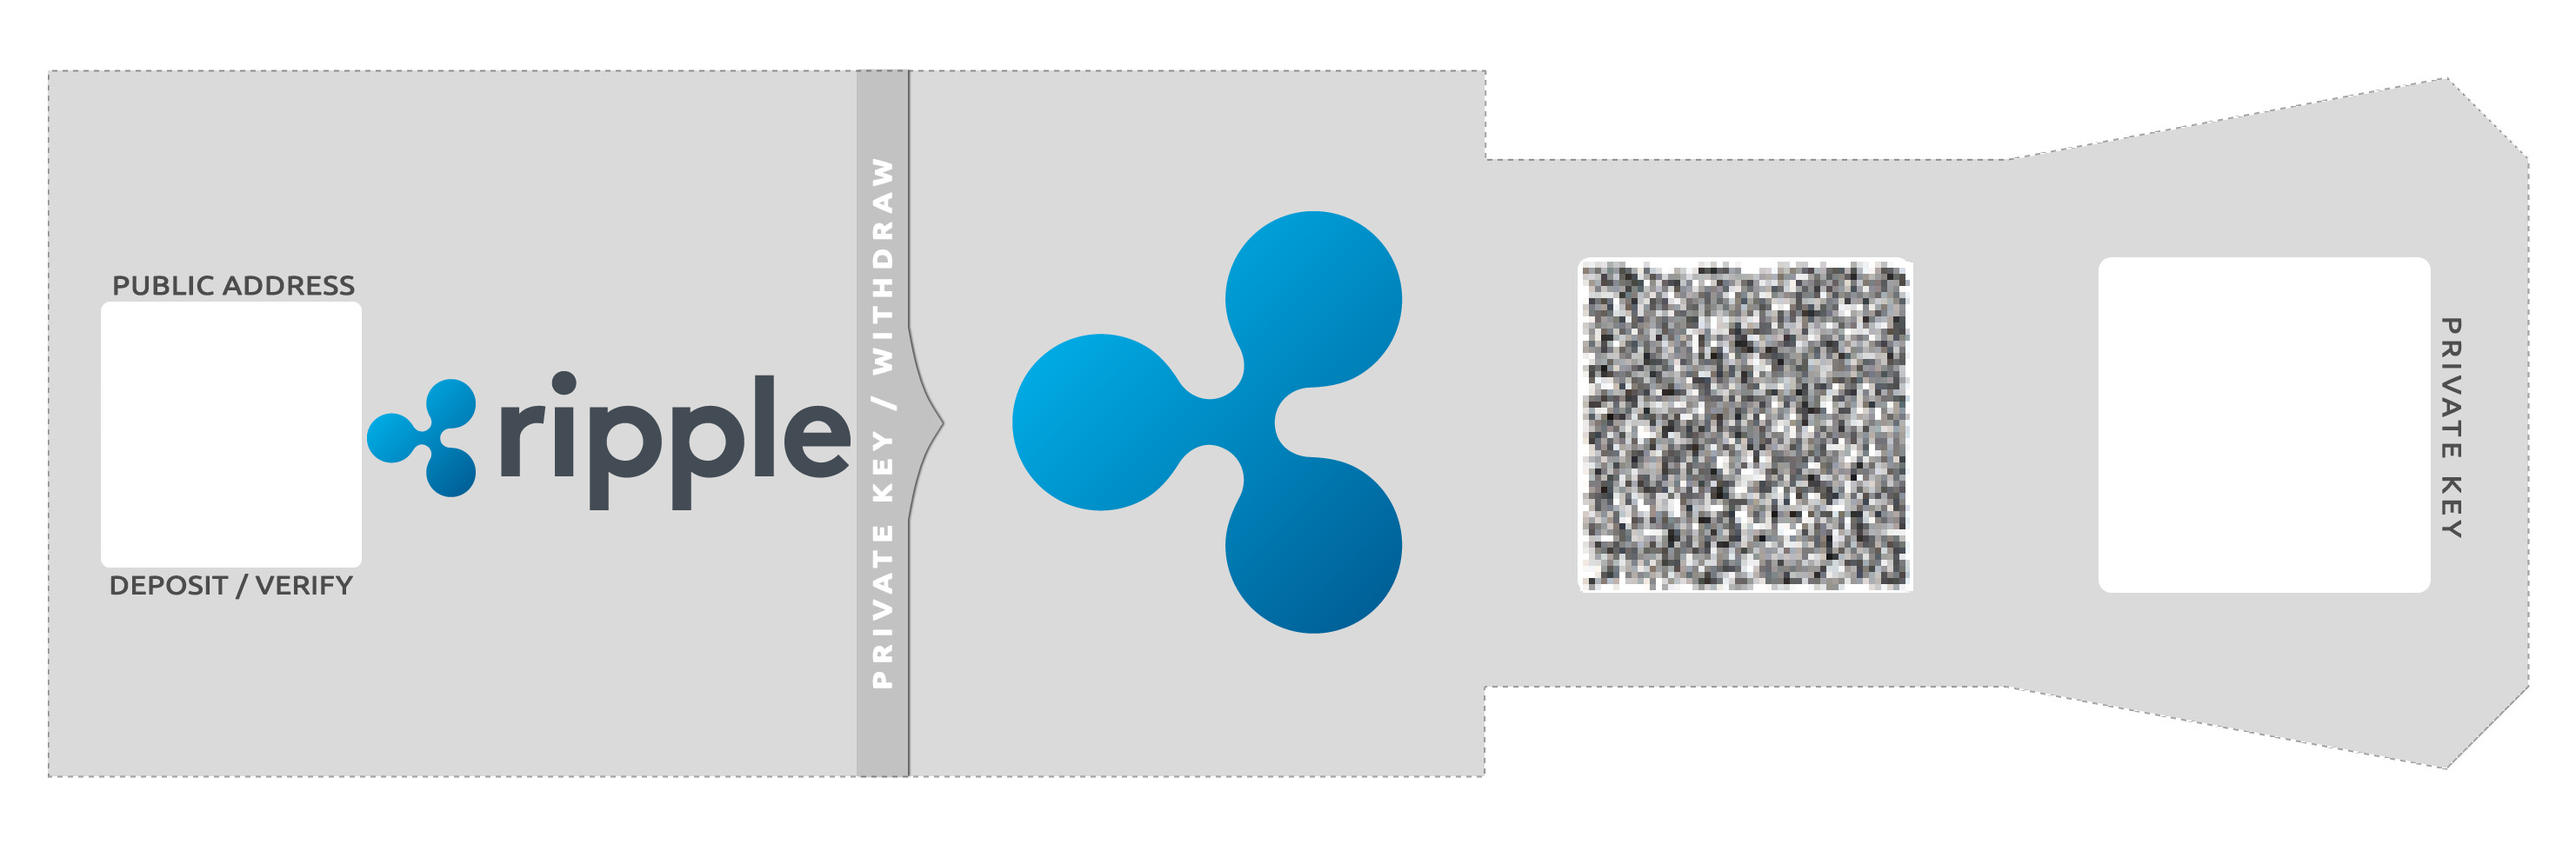
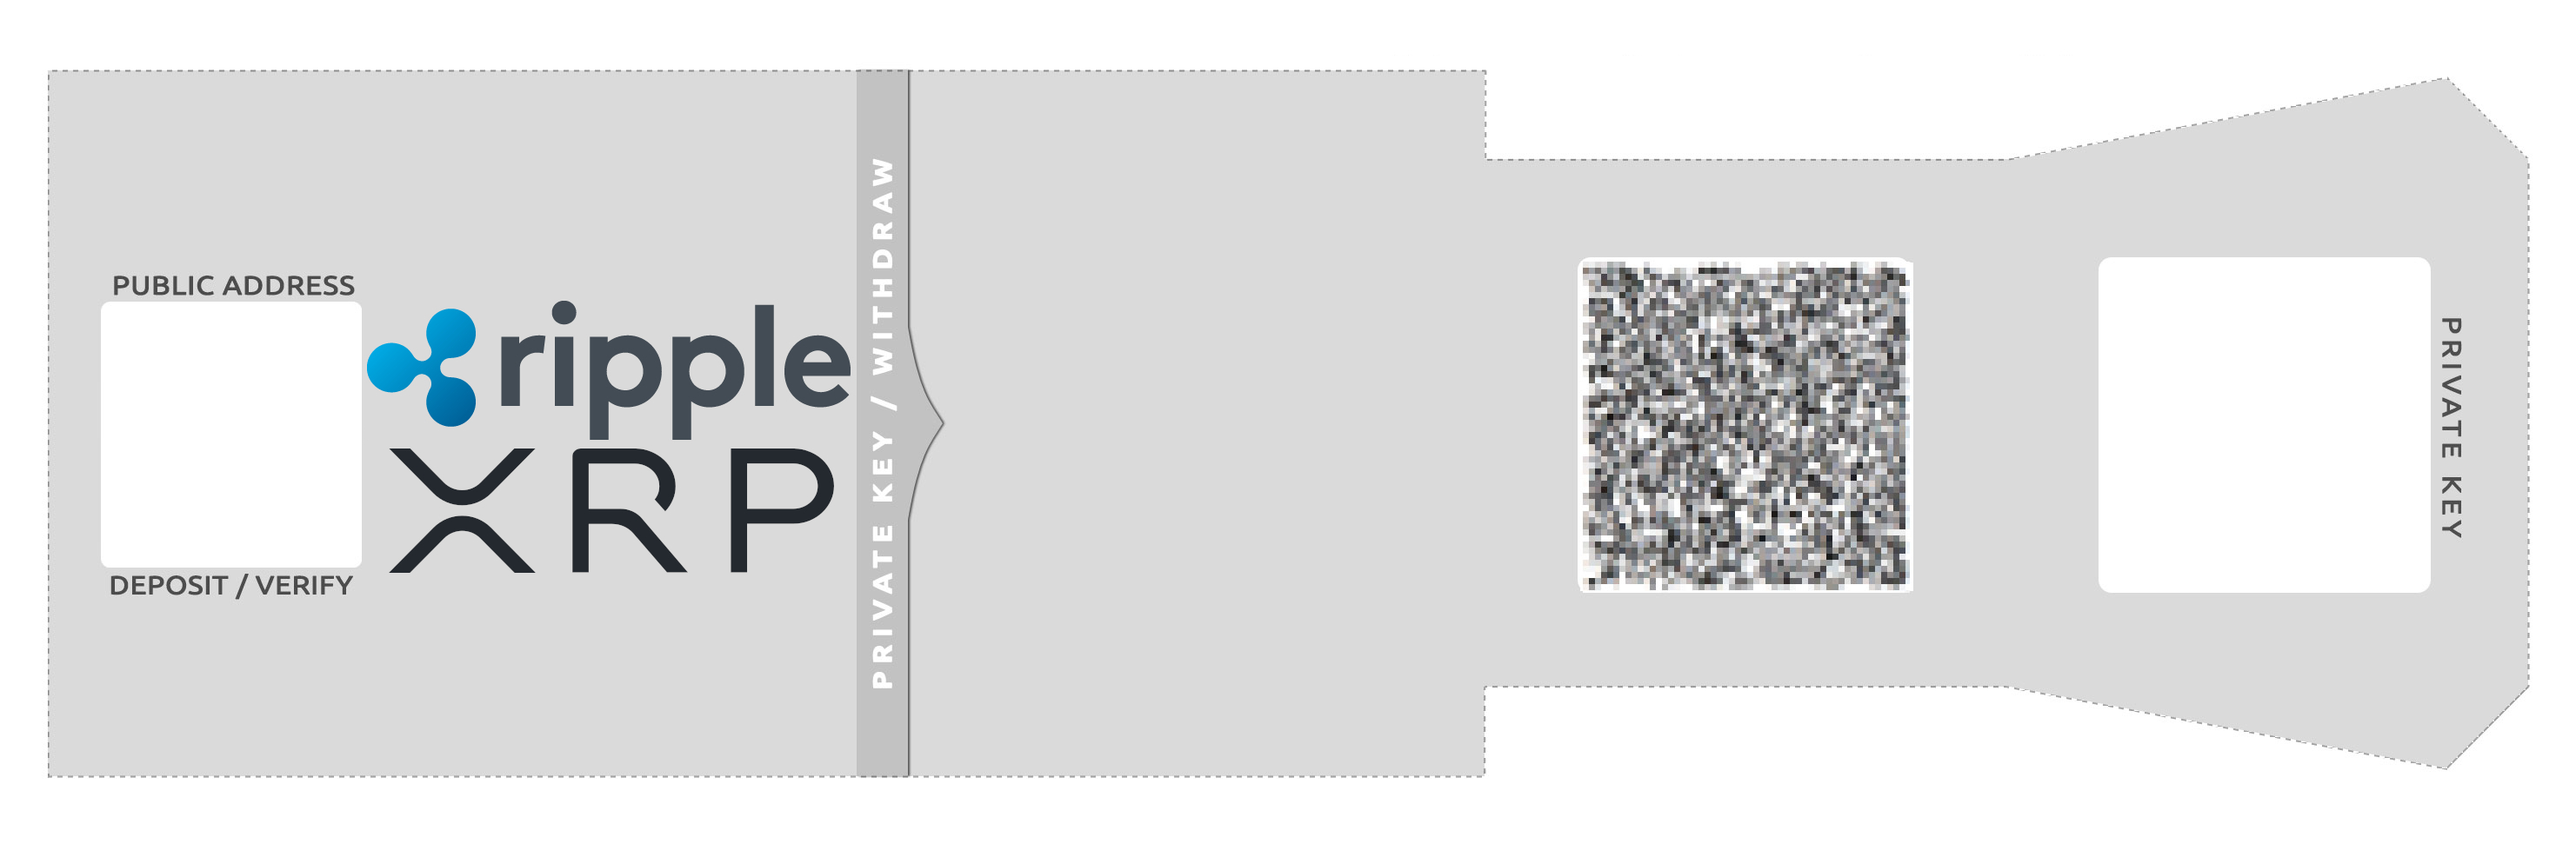
use latest Ripple XRP symbol

Changed region(s): [[0.3727, 0.2472, 0.5591, 0.7724], [0.1242, 0.3708, 0.3417, 0.6797]]

diff --git a/index.html b/index.html
@@ -22,8 +22,10 @@
         <nav class="ripple-text-blue" role="navigation">
             <div class="nav-wrapper container">
                 <a id="logo-container" href="#" class="brand-logo">
-                    <img src="vendor/ripple_logos/ripple_logo_small.png" />XRP Paper Wallet
-                    <span class="red-text">beta</span>
+                        <img src="vendor/ripple/XRP-Symbol-Kit/text-mark/xrp-text-mark-white.svg" />Ripple XRP Paper Wallet
+                        <span class="tag-beta red-text">beta</span> 
+                    <!-- <img src="vendor/ripple_logos/ripple_logo_small.png" />XRP Paper Wallet
+                    <span class="red-text">beta</span> -->
                 </a>
             </div>
         </nav>
@@ -74,11 +76,13 @@
                         </h2>
                         <h5 class="center">Cold wallet</h5>
 
-                        <p class="light">Securely hold the majority of XRP and funds. To provide optimal security, this account's secret key
+                        <p class="light">Securely hold the majority of XRP and funds. To provide optimal security, this
+                            account's secret key
                             should be offline.</p>
 
                         <div class="row center">
-                            <a href="#paper-wallet" id="generate-paper-wallet" class="btn-large waves-effect waves-light ripple-blue">Generate a paper wallet</a>
+                            <a href="#paper-wallet" id="generate-paper-wallet" class="btn-large waves-effect waves-light ripple-blue">Generate
+                                a paper wallet</a>
                         </div>
                     </div>
                 </div>
@@ -90,7 +94,8 @@
                         </h2>
                         <h5 class="center">Warm wallet</h5>
 
-                        <p class="light">Provide an additional layer of security between the cold and hot wallets. Unlike a hot wallet, the
+                        <p class="light">Provide an additional layer of security between the cold and hot wallets.
+                            Unlike a hot wallet, the
                             secret key of a warm wallet does not need to be online.</p>
                     </div>
                 </div>
@@ -102,11 +107,13 @@
                         </h2>
                         <h5 class="center">Hot wallet</h5>
 
-                        <p class="light">Conduct the day-to-day business of managing XRP withdrawals and deposits. Hot wallets need to be
+                        <p class="light">Conduct the day-to-day business of managing XRP withdrawals and deposits. Hot
+                            wallets need to be
                             online to service instant withdrawal requests.</p>
 
                         <div class="row center">
-                            <a href="https://ripple.com/xrp/buy-xrp/" target="_blank" class="btn-large waves-effect waves-light ripple-white-btn">Buy XRP</a>
+                            <a href="https://ripple.com/xrp/buy-xrp/" target="_blank" class="btn-large waves-effect waves-light ripple-white-btn">Buy
+                                XRP</a>
                         </div>
 
                     </div>
@@ -116,7 +123,9 @@
             <div class="row">
                 <div class="col">
                     <p>You can replicate what financial institutions do and
-                        <a class="ripple-text-link" href="https://ripple.com/build/issuing-operational-addresses/" target="_blank">use multiple XRP Ledger addresses</a> to minimize the risk associated with a compromised secret key.
+                        <a class="ripple-text-link" href="https://ripple.com/build/issuing-operational-addresses/"
+                            target="_blank">use multiple XRP Ledger addresses</a> to minimize the risk associated with
+                        a compromised secret key.
                         The hot/warm/cold model is intended to balance security and convenience.</p>
                 </div>
             </div>
@@ -134,7 +143,7 @@
                         This is your new XRP paper wallet
                     </h3>
                     <h4 class="ripple-text-blue">
-                        <strong>do not share</strong>...
+                        <strong>do not share</strong>... it's
                         <strong>EXTREMELY</strong> precious&nbsp;
                         <i class="fas fa-arrow-down"></i>
                     </h4>
@@ -189,7 +198,8 @@
                     <h4 class="ripple-text-blue">Next step is to fund your new address</h4>
                     <div class="row">
                         <div class="col s12">
-                            <p>To fund a new address, you must send enough XRP to meet the reserve requirement. Once created,
+                            <p>To fund a new address, you must send enough XRP to meet the reserve requirement. Once
+                                created,
                                 an account exists in the XRP Ledger's data tree forever.</p>
                         </div>
                     </div>
@@ -219,7 +229,8 @@
                         <h5 class="center">Base Reserve</h5>
 
                         <p class="light">The
-                            <strong>Base Reserve</strong> is a minimum amount of XRP that is required for every address in the ledger.
+                            <strong>Base Reserve</strong> is a minimum amount of XRP that is required for every address
+                            in the ledger.
                             Currently, this is
                             <strong>20 XRP</strong> (20000000 drops).</p>
                     </div>
@@ -233,7 +244,8 @@
                         <h5 class="center">Owner Reserve</h5>
 
                         <p class="light">The
-                            <strong>Owner Reserve</strong> is an increase to the reserve requirement for each object that the address
+                            <strong>Owner Reserve</strong> is an increase to the reserve requirement for each object
+                            that the address
                             owns in the ledger. Currently, this is
                             <strong>5 XRP</strong> (5000000 drops) per item.</p>
                     </div>
@@ -246,10 +258,14 @@
                         </h2>
                         <h5 class="center">Going Below the Reserve Requirement</h5>
 
-                        <p class="light">When an address holds less XRP than its current reserve requirement, it cannot send new transactions
-                            that would transfer XRP to others, or increase its own reserve. Even so, the address continues
-                            to exist in the ledger and can send other transactions as long as it has enough XRP to pay the
-                            transaction cost. The address can become able to send all types of transactions again if it receives
+                        <p class="light">When an address holds less XRP than its current reserve requirement, it cannot
+                            send new transactions
+                            that would transfer XRP to others, or increase its own reserve. Even so, the address
+                            continues
+                            to exist in the ledger and can send other transactions as long as it has enough XRP to pay
+                            the
+                            transaction cost. The address can become able to send all types of transactions again if it
+                            receives
                             enough XRP to meet its reserve requirement again.</p>
                     </div>
                 </div>
@@ -258,7 +274,8 @@
             <div class="row">
                 <div class="col">
                     <p>To submit transactions, an address must hold
-                        <a class="ripple-text-link" href="https://ripple.com/build/reserves/" target="_blank">a minimum amount of XRP in the shared global ledger</a>. You cannot send this XRP to other addresses.
+                        <a class="ripple-text-link" href="https://ripple.com/build/reserves/" target="_blank">a minimum
+                            amount of XRP in the shared global ledger</a>. You cannot send this XRP to other addresses.
                         To fund a new address, you must send enough XRP to meet the reserve requirement.
                     </p>
                 </div>
@@ -272,7 +289,8 @@
             <div class="row">
                 <div class="col l6 s12">
                     <h5 class="white-text">About</h5>
-                    <p class="">The goal of this tool is to democratize Ripple XRP cold wallets. This project is not affiliated to
+                    <p class="">The goal of this tool is to democratize Ripple XRP cold wallets. This project is not
+                        affiliated to
                         <a class="ripple-text-gray" href="https://ripple.com" target="_blank">Ripple</a>.
                     </p>
                 </div>
@@ -280,27 +298,31 @@
                     <h5 class="white-text">Links</h5>
                     <ul>
                         <li>
-                            <a class="white-text" href="https://github.com/lgcarrier/xrppaperwallet" target="_blank">Project's Github</a>
+                            <a class="white-text" href="https://github.com/lgcarrier/xrppaperwallet" target="_blank">Project's
+                                Github</a>
                         </li>
                         <li>
                             <a class="white-text" href="https://ripple.com" target="_blank">Ripple</a>
                         </li>
                         <li>
-                            <a class="white-text" href="https://ripple.com/build/" target="_blank">Ripple Developer Center</a>
+                            <a class="white-text" href="https://ripple.com/build/" target="_blank">Ripple Developer
+                                Center</a>
                         </li>
                     </ul>
                 </div>
                 <div class="col l3 s12">
                     <script type="text/javascript" src="https://files.coinmarketcap.com/static/widget/currency.js"></script>
-                    <div class="coinmarketcap-currency-widget" data-currency="ripple" data-base="USD" data-secondary="BTC"
-                        data-ticker="true" data-rank="true" data-marketcap="true" data-volume="true" data-stats="USD" data-statsticker="true"></div>
+                    <div class="coinmarketcap-currency-widget" data-currencyid="52" data-base="USD" data-secondary="BTC"
+                        data-ticker="false" data-rank="true" data-marketcap="true" data-volume="true" data-stats="USD"
+                        data-statsticker="false"></div>
                 </div>
             </div>
 
             <div class="row">
                 <div class="col l6 s12">
                     <h5 class="white-text">Disclaimer</h5>
-                    <p class="grey-text text-lighten-4">Use at your own risk. Not responsible if anything goes wrong. Do your due diligence, you can review the
+                    <p class="grey-text text-lighten-4">Use at your own risk. Not responsible if anything goes wrong.
+                        Do your due diligence, you can review the
                         code on GitHub.</p>
                 </div>
             </div>
@@ -308,7 +330,7 @@
         <div class="footer-copyright">
             <div class="container">
                 Made by
-                <a class="ripple-text-gray" href="https://github.com/lgcarrier" target="_blank">lgcarrier</a>
+                <a class="ripple-text-gray" href="https://github.com/lgcarrier" target="_blank">Louis-Guillaume Carrier-Bédard</a>
             </div>
         </div>
     </footer>

diff --git a/js/init.js b/js/init.js
@@ -114,6 +114,7 @@ function printWallet(side) {
     displayFrontPaperWallet(newAddress);
     displayBackPaperWallet();
     $('#paper-wallet').show();
+    $('html,body').animate({scrollTop: $('#paper-wallet').offset().top-50},'slow');
   }
 
   /**
@@ -121,12 +122,12 @@ function printWallet(side) {
    */
   function generatePaperWallet() {
     api.connect().then(() => {
-      console.log('generateAddress');
+      // console.log('generateAddress');
       return api.generateAddress();
     }).then(newAddress => {
-      console.log(newAddress);
+      // console.log(newAddress);
       displayPaperWallet(newAddress);
-      console.log('generateAddress done');
+      // console.log('generateAddress done');
     }).then(() => {
       // return api.disconnect();
     }).then(() => {

diff --git a/css/style.css b/css/style.css
@@ -13,6 +13,17 @@ nav .brand-logo {
   color: #444D55;
 }
 
+.brand-logo img {
+  margin-right: 10px;
+}
+
+.brand-logo span.tag-beta.red-text {
+  position: absolute;
+  top: -10px;
+  font-size: 12px;
+  right: 20px;
+}
+
 p {
   line-height: 2rem;
 }
@@ -43,6 +54,10 @@ p {
 }
 
 @media only screen and (max-width: 600px) {
+  .brand-logo img {
+    margin-left: 30px;
+  }
+
   #index-banner .section {
     top: 0;
   }
@@ -183,8 +198,11 @@ table {
 }
 
 .coinmarketcap-currency-widget > div {
-  color: #fff;
   background: #222;
+}
+
+.coinmarketcap-currency-widget > div span {
+  color: #ffffff !important;
 }
 
 .ripple-text-gray {
